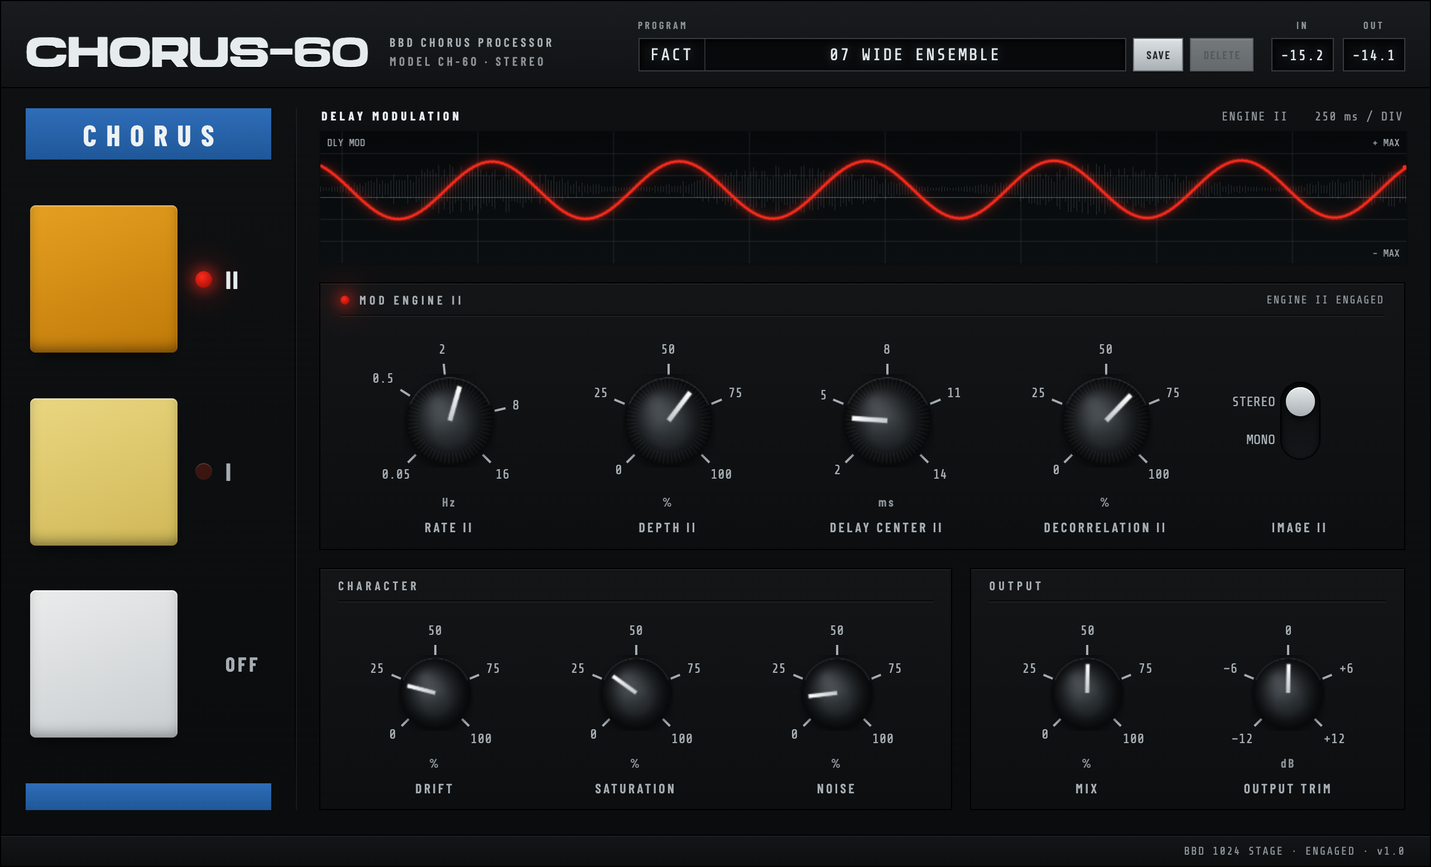
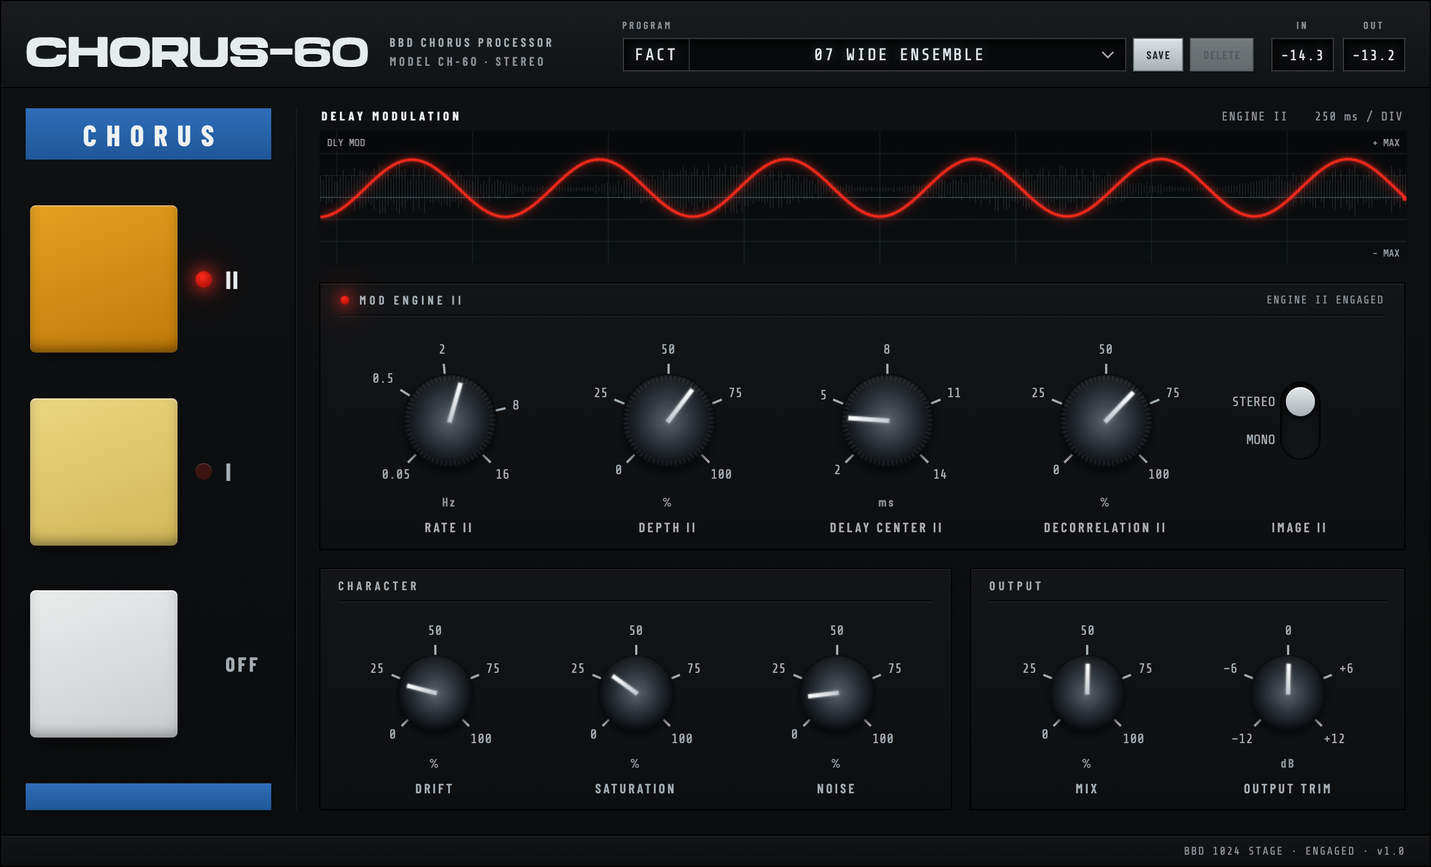
Real @2x knob filmstrips, and the generator that made them
All four sheets arrived rendered natively at their own size - the generator's
own header states it plainly, "Each is rendered natively at its own size,
nothing is upscaled" - and the generator ships with them as
design/tools/render-knob-filmstrips-chorus60.mjs. That closes the release
blocker and, better, makes the art reproducible in-project rather than a binary
nobody can rebuild.

The @1x sheets CHANGED SHAPE in this drop, which matters more than the @2x
arriving. Frame pitch went 84 -> 112 and 68 -> 92, with the cap now a true Ø84
and Ø68 inside those boxes. The previous sheets had pitch == cap, which left the
cast shadow no room; drawing them into a box of the section-8 diameter rendered
the mod knob at Ø75 against a spec of Ø84 - about 10% small - and it matched the
reference renders of the day, so nothing looked wrong. Measured after this
change: cap Ø83.0 mod and Ø67.0 global against Ø84 and Ø68, with the residual
inside my edge-finder's own noise on a soft gradient (the same measurement reads
81-83 across the reference render's own knobs).

capFraction therefore stops being decorative and starts carrying the geometry:
84/112 = 0.750 for mod, 68/92 = 0.739 for global. The two ratios differ for a
real reason - the global knob's shadow needs proportionally more room - so this
is a per-sheet number, not one constant. Border alpha measures <= 2 on every
edge of all four sheets, confirming the box is where the shadow dies rather than
padding to crop off.
[…]

diff --git a/design/reference/Chorus-60.dc.html b/design/reference/Chorus-60.dc.html
@@ -130,8 +130,8 @@ a:hover { color: #fff; }
                     <div style="position:absolute;left:{{ m.x }};top:{{ m.y }};width:52px;text-align:center;font-family:'Share Tech Mono',monospace;font-size:12px;line-height:14px;color:#A5ADB2">{{ m.t }}</div>
                   </sc-for>
                   <div style="position:absolute;left:0;right:0;top:148px;text-align:center;font-family:'Barlow Condensed',sans-serif;font-weight:600;font-size:11px;letter-spacing:.16em;color:#8A9196">{{ k.unit }}</div>
-                  <div onPointerDown="{{ k.onDown }}" onDoubleClick="{{ k.onReset }}" style="position:absolute;left:46px;top:40px;width:84px;height:84px;cursor:{{ k.cursor }}">
-                    <div style="position:absolute;inset:0;background-image:url('assets/knob_mod_84px_128f.png');background-size:84px 10752px;background-repeat:no-repeat;background-position:0 {{ k.frameY }}"></div>
+                  <div onPointerDown="{{ k.onDown }}" onDoubleClick="{{ k.onReset }}" style="position:absolute;left:32px;top:26px;width:112px;height:112px;cursor:{{ k.cursor }}">
+                    <div style="position:absolute;inset:0;background-image:url('assets/knob_mod_84px_128f.png');background-size:112px 14336px;background-repeat:no-repeat;background-position:0 {{ k.frameY }}"></div>
                   </div>
                 </div>
                 <div style="font-family:'Barlow Condensed',sans-serif;font-weight:600;font-size:12px;letter-spacing:.18em;color:#A5ADB2;text-align:center">{{ k.label }}</div>
@@ -166,8 +166,8 @@ a:hover { color: #fff; }
                         <div style="position:absolute;left:{{ m.x }};top:{{ m.y }};width:46px;text-align:center;font-family:'Share Tech Mono',monospace;font-size:12px;line-height:14px;color:#A5ADB2">{{ m.t }}</div>
                       </sc-for>
                       <div style="position:absolute;left:0;right:0;top:128px;text-align:center;font-family:'Barlow Condensed',sans-serif;font-weight:600;font-size:11px;letter-spacing:.16em;color:#8A9196">{{ k.unit }}</div>
-                      <div onPointerDown="{{ k.onDown }}" onDoubleClick="{{ k.onReset }}" style="position:absolute;left:45px;top:38px;width:68px;height:68px;cursor:{{ k.cursor }}">
-                        <div style="position:absolute;inset:0;background-image:url('assets/knob_global_68px_128f.png');background-size:68px 8704px;background-repeat:no-repeat;background-position:0 {{ k.frameY }}"></div>
+                      <div onPointerDown="{{ k.onDown }}" onDoubleClick="{{ k.onReset }}" style="position:absolute;left:33px;top:26px;width:92px;height:92px;cursor:{{ k.cursor }}">
+                        <div style="position:absolute;inset:0;background-image:url('assets/knob_global_68px_128f.png');background-size:92px 11776px;background-repeat:no-repeat;background-position:0 {{ k.frameY }}"></div>
                       </div>
                     </div>
                     <div style="font-family:'Barlow Condensed',sans-serif;font-weight:600;font-size:12px;letter-spacing:.18em;color:#A5ADB2;text-align:center">{{ k.label }}</div>
@@ -472,7 +472,7 @@ class Component extends DCLogic {
     const r = ring(m, GEO_GLB);
     return {
       label: m.label, unit: m.unit, ticks: r.ticks, marks: r.marks,
-      frameY: '-' + (f * 68) + 'px',
+      frameY: '-' + (f * 92) + 'px',
       cursor: live ? 'ns-resize' : 'default',
       onDown: (e) => {
         if (!this.live()) return;
@@ -504,7 +504,7 @@ class Component extends DCLogic {
     };
     return {
       label: name, unit: m.unit, ticks: r.ticks, marks: r.marks,
-      frameY: '-' + (Math.round(n * 127) * 84) + 'px',
+      frameY: '-' + (Math.round(n * 127) * 112) + 'px',
       cursor: live ? 'ns-resize' : 'default',
       onDown: (e) => {
         if (!this.live()) return;

diff --git a/Source/GUI/Chorus60Theme.h b/Source/GUI/Chorus60Theme.h
@@ -89,13 +89,14 @@ namespace Chorus60Theme
         section 4 warns that sizing from the pitch lands every control about 15% small, and the
         padding ratio differs between sheets (Gatecrasher's Ø136 cap sits in a 160 px box).
 
-        For the @1x strips shipping today the ratio is close enough to 1 that drawing a frame into a
-        box of the section-8 diameter reproduces the reference renders EXACTLY - measured cap Ø75.0
-        for mod and Ø67.0 for global in both chorus60-page-i@2x.png and a capture of this build. So
-        capFraction is 1 here on purpose, describing what these sheets do rather than what an ideal
-        sheet would; when the @2x sheets land, set it from their real cap-to-pitch ratio and the
-        knobs keep the same on-screen size. Do NOT "correct" the @1x knobs to a Ø84 cap - that would
-        push them into the plate's printed ticks at r 42.5 and break agreement with the renders. */
+        The generator's own header states the rule: "the frame box is LARGER than the cap ... this is
+        not padding: it is where the cast shadow fades to zero. Do not re-crop, and position knobs
+        from the CAP centre, not the frame box." Measured on the shipped sheets, border alpha is <= 2
+        everywhere, so the shadow really does die inside the frame.
+
+        An earlier revision shipped sheets whose pitch WAS the cap diameter, which cost the shadow
+        its room; drawing those into a box of the section-8 diameter happened to match the renders of
+        the day. Do not reintroduce that by "simplifying" this field away. */
     struct FilmstripSheet
     {
         int framePx;
@@ -123,8 +124,13 @@ namespace Chorus60Theme
         // single source of truth for where a mark sits, and the spec is the record of why.
 
         constexpr int knobFrameCount = 128;
-        inline constexpr FilmstripSheet modSheet{84, 1, 1.0f};
-        inline constexpr FilmstripSheet globalSheet{68, 1, 1.0f};
+        // frame pitch, columns (1 = vertical strip), cap-to-pitch ratio. Taken from the shipped
+        // generator's own table (design/tools/render-knob-filmstrips-chorus60.mjs): the mod cap is
+        // Ø84 in a 112 box and the global Ø68 in a 92 box, and the difference between those two
+        // ratios is real, not rounding - the global knob's shadow needs proportionally more room.
+        // The @2x sheets are the same caps at 168/136 in 224/184, laid out as 8x16 row-major grids.
+        inline constexpr FilmstripSheet modSheet{112, 1, 84.0f / 112.0f};
+        inline constexpr FilmstripSheet globalSheet{92, 1, 68.0f / 92.0f};
 
         // ---- Section 4: regions ---------------------------------------------------------------
         constexpr float headerBandH = 78.0f;

diff --git a/design/CHORUS60-BUILD-HANDOFF.md b/design/CHORUS60-BUILD-HANDOFF.md
@@ -112,47 +112,61 @@ lamp-on / lamp-off ship as a pair and the buttons do not. If the build wants a p
 The buttons' seating shadow is **not** baked into the sprites (it would fight the plate's material).
 Draw it under each button: `0 7px 13px -7px rgba(0,0,0,.95)`.
 
-## 4. Knob filmstrips — **re-rendered, diameters CHANGED**
+## 4. Knob filmstrips — **re-rendered: new cap, new frame boxes, @2x shipped**
 
 The layout enlarged both knob sizes. These are re-rendered at the new diameters, not scaled sprites.
 
-| File | Diameter | Frames | Sheet | Layout |
-|---|---|---|---|---|
-| `assets/knob_mod_84px_128f.png` | **84** (was 58) | 128 | 84 × 10752 | Vertical strip, frame *n* at y = −84 n |
-| `assets/knob_global_68px_128f.png` | **68** (was 48) | 128 | 68 × 8704 | Vertical strip, frame *n* at y = −68 n |
-| `assets/knob_mod_168px_128f@2x.png` | 168 | 128 | 1344 × 2688 | **8 × 16 grid**, row-major |
-| `assets/knob_global_136px_128f@2x.png` | 136 | 128 | 1088 × 2176 | **8 × 16 grid**, row-major |
+| File | Cap Ø | Frame box | Frames | Sheet | Layout |
+|---|---|---|---|---|---|
+| `assets/knob_mod_84px_128f.png` | **84** | **112** | 128 | 112 × 14336 | Vertical strip, frame *n* at y = −112 n |
+| `assets/knob_global_68px_128f.png` | **68** | **92** | 128 | 92 × 11776 | Vertical strip, frame *n* at y = −92 n |
+| `assets/knob_mod_168px_128f@2x.png` | **168** | **224** | 128 | 1792 × 3584 | **8 × 16 grid**, row-major |
+| `assets/knob_global_136px_128f@2x.png` | **136** | **184** | 128 | 1472 × 2944 | **8 × 16 grid**, row-major |
 
-The @2x sheets are grids, not strips: a 168 × 21504 vertical strip exceeds the maximum texture and
+⚠ **The frame box is larger than the cap.** Cap-to-box ratio is 0.75 (global is 0.739 — 68 / 0.75 is
+not an integer, and 92 was chosen so the @2x sheet is an exact doubling). The margin is **not
+padding**: it is where the cast shadow fades to zero. Do not re-crop the sheets, and **position each
+knob from the cap centre, not from the frame box** — treating the box as the knob makes every control
+render ~33 % oversized.
+
+Earlier revisions shipped cap-fills-frame sheets (Ø84 in an 84 box). Those clipped the cast shadow
+square at the frame edge — the generator's own guard flags it, and the retired Ø128 masters failed it
+at border alpha 88 top / 95 bottom / 38 sides. All four sheets above pass at ≤ 2.
+
+The @2x sheets are grids, not strips: a 224 × 28672 vertical strip exceeds the maximum texture and
 canvas height on most targets. Frame *n* sits at column *n* mod 8, row ⌊*n* / 8⌋.
 
 Frame 0 = −135°, frame 127 = +135°, linear in between.
 
-⚠ **Open dependency — the @2x sheets are not in this bundle.** They were previously shipped as
-upsampled placeholders; those files have been **removed** rather than left in place, because a file
-named `@2x` in an assets folder tends to get wired up on sight and would ship a soft knob under a
-retina label. The @1x strips are final and are what ships today.
+**Source: a parametric generator, not a raster master.** The knob is drawn programmatically from a
+scale factor S — cap radius, rim stroke (2 × S), shadow blur (11 × S), shadow offset (8 × S), pointer
+width/length and pointer glow all derive from it. Any diameter is reachable by re-running it; the
+retired Ø128 files were outputs, never the source. All four sheets above were produced from that
+generator at Chorus-60 diameters, natively at each size — nothing is upscaled.
 
-**The source is a parametric generator, not a raster master.** The knob art is drawn programmatically
-from a scale factor S: canvas, cap radius, rim stroke (2 × S), shadow blur (11 × S), shadow offset
-(8 × S), pointer width/length and pointer glow are all computed from it. The Ø128 files in `assets/`
-are outputs of that generator, not its source — so the old "Ø128 is the ceiling" reading in earlier
-revisions of this section was wrong. Any diameter is reachable by changing S.
+**The cap look changed this revision, deliberately.** Chorus-60 moved onto Gatecrasher's current
+render (the knob is shared — the retired Ø128 masters were byte-identical across both projects), then
+diverged on two points, both recorded in `tools/render-knob-filmstrips-chorus60.mjs`:
 
-The ask is therefore a **config change, not new artwork**: run the generator with the **Chorus-60 cap
-parameters** at **Ø336**, 128 frames, frame 0 = −135°. Ø336 covers Chorus-60 mod (Ø168) and global
-(Ø136) with headroom, and Gatecrasher (Ø240) from the same run.
+- **Darker cap, lit from the centre.** Gatecrasher lights the cap off-axis from the upper left,
+  which reads grey and flat against Chorus-60's dark fascia. Chorus-60 uses a **centred radial
+  falloff** instead — grey core, black rim, as on the original CH-60 knob. Gradient centred on the
+  cap at radius 0.62 × D with stops `#5a626a / #2d333a / #0e1114 / #030405`; top highlight .13 → .06
+  and bottom occlusion .28 → .18, since the vignette now does that work; knurl shadow band .18 → .22.
+- **Both pointers reach the cap centre.** The inherited geometry had the two knobs disagreeing: the
+  global pointer was thick and overshot (`pointerW` 0.075, tip at 0.625 D) while the mod pointer
+  stopped short at 0.468 D. Both now land at **0.520 D** — global `pointerW` 0.056 / `pointerTop`
+  0.115 / `pointerLen` 0.405, mod `pointerW` 0.048 / `pointerTop` 0.081 / `pointerLen` 0.439.
+- **The knurl rotates with the frame.** Gatecrasher draws the skirt at fixed angles, so the flutes
+  sit still while the pointer moves — visibly wrong once you turn a knob. Here the serration offset
+  advances by the frame angle.
 
-Three things to get right when the sheets arrive:
+Both @1x and @2x were re-rendered. This is a visible change to the panel, not a resolution-only swap
+— the renders in `reference/` predate it.
 
-- **Cap diameter is not frame pitch.** The generator pads each frame for the drop shadow — in the
-  Gatecrasher sheets a Ø136 cap sits in a 160 px box. Size knobs from the cap diameter or every
-  control lands ~15 % small.
-- **Do not substitute the Gatecrasher cap.** Its current render is a different design — lighter,
-  flatter, much shallower knurling. Chorus-60's panel is built against the darker knurled cap and
-  the @1x strips are final; the appearance must not change.
-- **@2x stays an 8 × 16 row-major grid** for the reason above — a Ø336 vertical strip would be far
-  past the texture-height limit.
+Retina is no longer an open dependency. The generator ships with the bundle
+(`tools/render-knob-filmstrips-chorus60.mjs`, `npm i canvas` then `node …`), so any future size is a
+re-run rather than an upscale. It carries the same shadow guard: all four sheets pass at ≤ 2.
 
 ## 5. Product icon — **exists, unchanged**
 

diff --git a/design/CHORUS60-HANDOFF-README.md b/design/CHORUS60-HANDOFF-README.md
@@ -41,7 +41,13 @@ points; multiply by 2 for the @2x asset set.
 - **Wells are baked, contents are not.** Scope, LCD (bank cell, divider, name field) and
   both meters ship as empty inset wells in the plate.
 
-## Delta since the last spec revision
+## Delta since the last spec revision — read this before the specs
+
+**Knob filmstrips were re-rendered and the cap redesigned.** All four sheets ship (@1x and @2x, both
+sizes), the frame box is now larger than the cap, and both pointers reach 0.520 D. The reference
+renders were re-captured to match. Details in the "Knob filmstrips" section below and in
+`spec/CHORUS60-BUILD-HANDOFF.md` §4 — that section supersedes anything older it contradicts.
+
 The PROGRAM LCD now has a **chevron affordance** at the right edge of the name field:
 11 × 7 px, 1.4 px stroke, square caps, `currentColor` at 0.75 opacity, vertically centred,
 10 px inset from the field's right edge. The field gained 26 px of right padding to clear
@@ -49,17 +55,25 @@ it. It is hidden during name-entry and during parameter readouts — it appears 
 LCD is showing a stored program, where it reads as "this is a picker." This is not yet
 reflected in `CHORUS60-GUI-SPEC.md`; treat this README as the source for it.
 
-## Open dependency — blocks retina release, not the build
-The `@2x` knob filmstrips (Ø168 mod / Ø136 global) are **not in this bundle**. Earlier revisions
-shipped upsampled placeholders; those have been removed, so nothing here can be wired up by mistake
-and ship soft under a retina label. The `@1x` sheets (Ø84 / Ø68) are final and are what ships today.
+## Knob filmstrips — re-rendered, and the cap look changed
+All four sheets ship: `@1x` and `@2x`, both knob sizes, each rendered natively at its own size by
+the parametric generator. Nothing is upscaled and retina is no longer an open dependency.
 
-The knob is drawn by a **parametric generator** taking a scale factor S, so this is a config change
-rather than new artwork: run it with the **Chorus-60 cap parameters** at **Ø336**, 128 frames, frame
-0 = −135°, into **8 × 16 row-major grids**. That covers mod (Ø168), global (Ø136) and Gatecrasher
-(Ø240) in one go. Note the generator pads frames for the drop shadow — **size knobs from the cap
-diameter, not the frame pitch**. And do not substitute the current Gatecrasher cap: it is a different
-design (lighter, flatter, shallower knurling) and Chorus-60's appearance must not change.
+**Two things changed that the build must account for.**
+
+The **frame box is now larger than the cap** — Ø84 in a 112 box, Ø68 in a 92 box, doubled at `@2x`.
+The margin is where the cast shadow fades to zero, so do not crop it, and **centre each knob on the
+cap, not on the frame box**. Treating the box as the knob renders every control ~33 % oversized. The
+previous cap-fills-frame sheets clipped the shadow square at the frame edge; these pass the
+generator's shadow guard.
+
+The **cap itself looks different** — lighter body, flatter falloff, knurl reaching further in. The
+knob is shared with Gatecrasher and this brings Chorus-60 onto its current render, so the two plugins
+stay on one design. It is a visible panel change: the renders in `reference/` predate it.
+
+The generator ships with the bundle — `tools/render-knob-filmstrips-chorus60.mjs` (`npm i canvas`,
+then `node render-knob-filmstrips-chorus60.mjs <outDir>`). It regenerates all four sheets and checks
+that the cast shadow reaches zero inside every frame box.
 
 Full detail in `spec/CHORUS60-BUILD-HANDOFF.md` §4.
 
@@ -69,15 +83,19 @@ Full detail in `spec/CHORUS60-BUILD-HANDOFF.md` §4.
   `prototype/Chorus-60 Background Plate.dc.html`, which is the same markup as the panel
   with runtime strings hidden, so plate and panel cannot drift. Regenerate from that file,
   never by hand.
-- `knob_mod_84px_128f.png`, `knob_global_68px_128f.png` — final @1x filmstrips.
+- `knob_mod_84px_128f.png` (Ø84 cap / 112 box), `knob_global_68px_128f.png` (Ø68 / 92) — @1x
+  vertical strips.
+- `knob_mod_168px_128f@2x.png` (Ø168 / 224), `knob_global_136px_128f@2x.png` (Ø136 / 184) — @2x,
+  8 × 16 row-major grids.
 - `controls/` — buttons (I / II / OFF), lamps (on / off), IMAGE switch as separate
   `switch-track` (34 × 26) and `switch-thumb` (26 × 26) sprites so the thumb animates a
   true 34 px travel rather than a crossfade. `switch-mono` / `switch-stereo` are the older
   whole-switch sprites, kept for reference. Each at @1x and @2x.
 - `LibrestileExtBold.ttf` — display face for the wordmark and model line.
 
-`reference/` — rendered panel states (Engine I, Engine II, I + II, OFF). **Review images
-only.** Do not use as build inputs or slice from them.
+`reference/` — rendered panel states (Engine I, Engine II, I + II, OFF), captured from the current
+prototype and matching the shipped knob art. **Review images only.** Do not use as build inputs or
+slice from them.
 
 ## Parameter notes
 Rate uses a JUCE `NormalisableRange` with **skew 0.35 over 0.05–16 Hz**. No lookup table.

diff --git a/CLAUDE.md b/CLAUDE.md
@@ -245,23 +245,17 @@ Unlike Gatecrasher, CHORUS-60 has no sidechain input bus - `BusesProperties` is 
   section 1.2 list - no double-prints, nothing straying onto baked furniture. The OFF state was
   measured rather than eyeballed (0.500 in the three boxes, 1.000 elsewhere, pointers unmoved), and
   the Rate pointer lands on its printed ticks to 0.20 degrees at minimum and 0.00 at maximum.
-- **One release blocker**, tracked in `prompts/PROMPTS.md`: there are no @2x knob filmstrips. The
-  earlier placeholders were upsampled and have been removed from `design/assets/` deliberately, so a
-  file named `@2x` can't get wired up on sight. The @1x strips are final and are what ships. The knob
-  comes from a **parametric generator** taking a scale factor - the Ø128 files earlier revisions
-  called "masters" were its outputs, not a ceiling - so producing the real sheets is a config change,
-  and handoff section 4 has the run parameters. `Chorus60Theme::FilmstripSheet` carries frame pitch,
-  column count and **cap-to-pitch ratio** as data so they drop in without a drawing-code change.
-- **Cap diameter is not frame pitch**, and the two must not be conflated when those sheets arrive:
-  the generator pads each frame for the drop shadow. On the current @1x strips the ratio is close
-  enough to 1 that drawing a frame into a box of the section-8 diameter reproduces the reference
-  renders exactly - measured cap Ø75.0 mod and Ø67.0 global in both `chorus60-page-i@2x.png` and a
-  capture of this build. **Do not "correct" the @1x knobs to a Ø84 cap**: that pushes them into the
-  plate's printed ticks at r 42.5 and breaks agreement with the acceptance renders.
-- **Schema 3 is a hard break.** Session restore and the user-Program load path both discard state
-  whose schema attribute is not current, so any `.chorus60program` written before this revision will
-  no longer load - the `image*` rename and the Rate widening make a v2 file unreadable as v3. Nothing
-  has shipped, so this is deliberate, but an existing user Program has to be re-saved.
+- **Knob filmstrips are complete and reproducible.** All four sheets ship rendered natively at their
+  own size, and the generator ships with them as `design/tools/render-knob-filmstrips-chorus60.mjs`,
+  so the art can be regenerated at any diameter rather than being a binary nobody can rebuild. The
+  earlier release blocker is closed.
+- **Cap diameter is not frame pitch, and `FilmstripSheet::capFraction` is what keeps them apart.**
+  The generator pads each frame so the cast shadow fades to zero inside it - measured border alpha
+  <= 2 on all four sheets - so the mod cap is Ø84 in a 112 box (0.750) and the global Ø68 in a 92 box
+  (0.739). Those two ratios differ for a real reason, not rounding. `KnobFilmstripComponent` draws
+  into `diameter / capFraction` so the CAP lands at section 8's size; size from the pitch instead and
+  every control comes out about 25% small. The generator's own header says it: "position knobs from
+  the CAP centre, not the frame box."
 - **Program bank**: 9 curated programs, `01 EIGHTY-TWO` default (spec section 11 confirms factory
   index 0; the `07 WIDE ENSEMBLE` that appears throughout the spec is an illustrative LCD string, not
   a bank entry). Values are structurally verified - ranges, the both-engines invariant, and a

diff --git a/design/CHORUS60-GUI-SPEC.md b/design/CHORUS60-GUI-SPEC.md
@@ -164,17 +164,27 @@ Three contents, one field:
 
 ## 6. Knob assets — **CHANGED, re-render required**
 
-| Sheet | Diameter | Frames | Sheet size | Used by |
-|---|---|---|---|---|
-| `assets/knob_mod_84px_128f.png` | **84 px** (was 58) | 128 | 84 × 10752 | Rate, Depth, Delay Center, Decorrelation |
-| `assets/knob_global_68px_128f.png` | **68 px** (was 48) | 128 | 68 × 8704 | Drift, Saturation, Noise, Mix, Output Trim |
+| Sheet | Cap Ø | Frame box | Frames | Sheet size | Used by |
+|---|---|---|---|---|---|
+| `assets/knob_mod_84px_128f.png` | **84 px** | **112** | 128 | 112 × 14336 | Rate, Depth, Delay Center, Decorrelation |
+| `assets/knob_global_68px_128f.png` | **68 px** | **92** | 128 | 92 × 11776 | Drift, Saturation, Noise, Mix, Output Trim |
+| `assets/knob_mod_168px_128f@2x.png` | **168 px** | **224** | 128 | 1792 × 3584 | as above, @2x — 8 × 16 grid |
+| `assets/knob_global_136px_128f@2x.png` | **136 px** | **184** | 128 | 1472 × 2944 | as above, @2x — 8 × 16 grid |
 
-Both sheets are **re-rendered at the new diameter** from the Ø128 masters — resampled once at build
-time, not scaled at draw time. The old `knob_large_128px_128f.png` / `knob_small_128px_128f.png`
-masters remain in `assets/` as the source of truth for future re-renders; the Ø58 / Ø48 usages are
-retired.
+**The frame box is larger than the cap** (ratio 0.75; global 0.739). The margin carries the cast
+shadow to zero — do not crop it, and centre each knob on the **cap**, not the frame box.
 
-Frame *n* (0…127) = `background-position: 0 −(n × diameter)px`. Frame 0 = −135°, frame 127 = +135°.
+All four sheets are rendered natively at their own size by a parametric generator taking a scale
+factor S — nothing is scaled at draw time and nothing is upscaled. The Ø58 / Ø48 usages are retired.
+
+**The cap look changed this revision**: lighter body, flatter falloff, knurl reaching further in.
+This matches Gatecrasher, which shares the knob. It is a visible panel change, not a resolution swap
+— reference renders predate it. The Ø128 files in `assets/` are retired outputs, not a source;
+future re-renders go back to the generator. See §4 of `CHORUS60-BUILD-HANDOFF.md`.
+
+Frame *n* (0…127) = `background-position: 0 −(n × frame box)px` for the @1x strips — that is
+−112 n for mod and −92 n for global, **not** the cap diameter. The @2x sheets are 8 × 16 grids: frame
+*n* at column *n* mod 8, row ⌊*n* / 8⌋. Frame 0 = −135°, frame 127 = +135°.
 The knurl ring that used to sit around each knob is **removed** — the printed scale replaces it.
 
 ## 7. Printed scales
